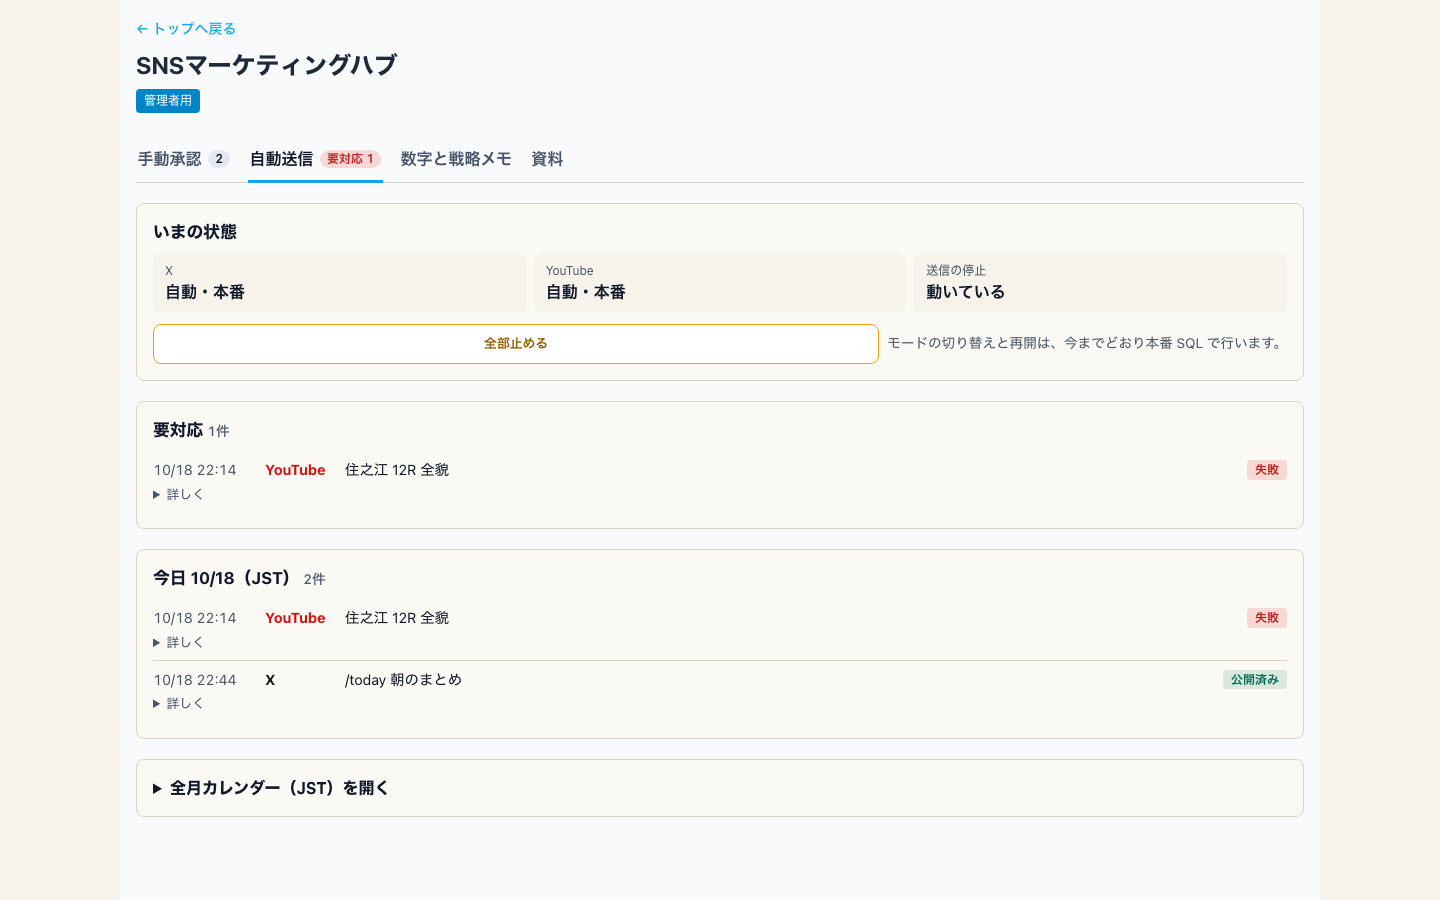
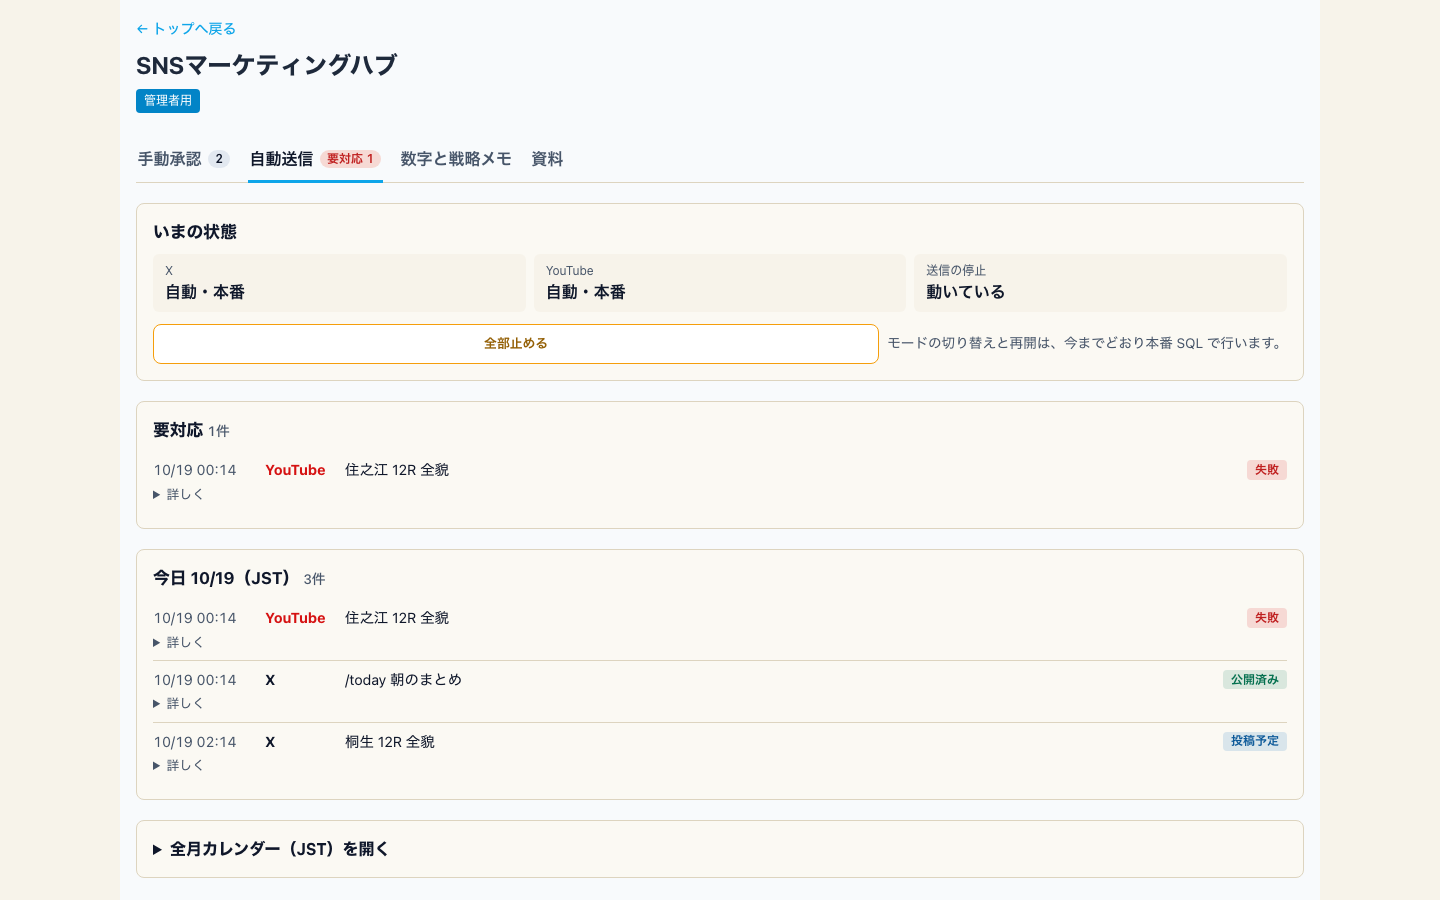
test: SNS ハブの受け入れ E2E を日付をまたぐ時刻でも通るようにし、画面の画像を撮り直す

diff --git a/e2e/acceptance/sns-hub-pages.spec.js b/e2e/acceptance/sns-hub-pages.spec.js
@@ -97,7 +97,7 @@ for (const width of [375, 1440]) {
         title: "住之江 12R 全貌",
         channel: "youtube",
         state: "failed",
-        scheduled_at: iso(now - H),
+        scheduled_at: iso(now), // 日付をまたぐ時刻でも「今日」に入るよう今の時刻にする
         expires_at: iso(now),
         error_code: "upload_failed",
       },
@@ -106,7 +106,7 @@ for (const width of [375, 1440]) {
         title: "/today 朝のまとめ",
         channel: "x",
         state: "posted",
-        posted_at: iso(now - 30 * 60 * 1000),
+        posted_at: iso(now),
       },
       {
         id: "q",

diff --git a/e2e/acceptance/sns-deadline-queue.spec.js b/e2e/acceptance/sns-deadline-queue.spec.js
@@ -56,7 +56,7 @@ for (const theme of ["light", "dark"])
         title: "今日公開した投稿",
         channel: "x",
         state: "posted",
-        posted_at: iso(now - 60 * 1000),
+        posted_at: iso(now), // 日付をまたぐ時刻でも「今日」に入る
       },
     ]);
     await page.goto("/__queue_test");
